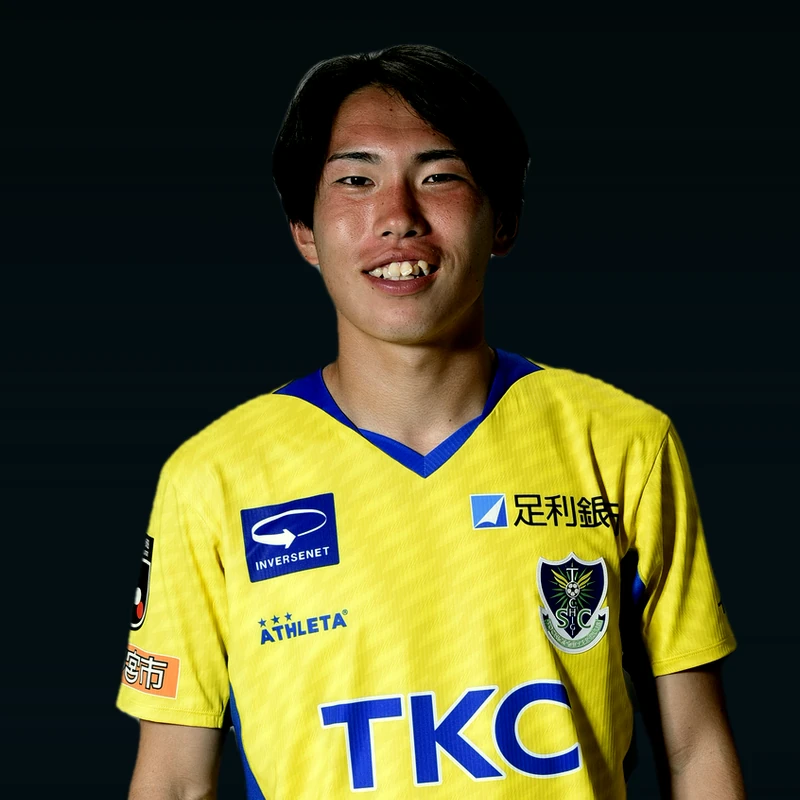
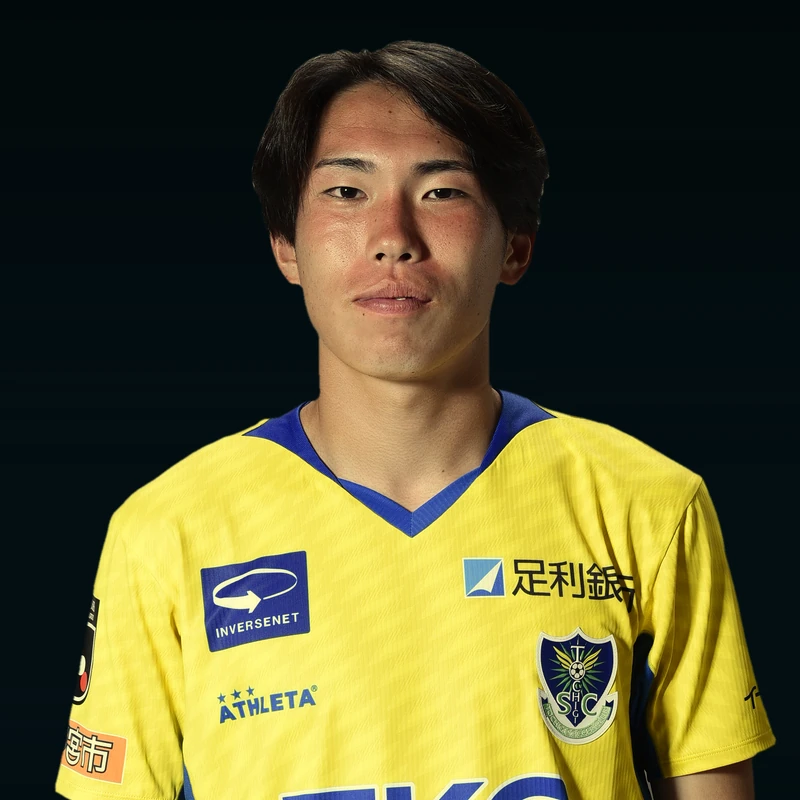
特別指定選手 #2 櫻井 稜 の個人ページを追加、写真を真顔に差し替え
未使用だったオリジナル写真(2008x3008・真顔)を発見したので、
一覧カードを笑顔から真顔に差し替え、他の33名と表情を揃えた。
個人ページ用の写真も同じ素材から作成(#77中村と同じ手順:
rembgで切り抜き→ユニフォームの黄色基準で色合わせ→同じ黒背景に合成)。
名前ボードは写り込まない位置で切っている。

アンケートは未実施のため、個人ページはPROFILEのみ掲載し
Q&Aは「準備中です。」と表示する。前後の選手ナビは付けない。
追従メニューのタブは「特別指定選手」(狭い端末でも1行に収まるよう調整)。

diff --git a/players/2.html b/players/2.html
@@ -15,7 +15,7 @@ if(location.hostname.endsWith('github.io')){
 }
 </script>
 <meta name="viewport" content="width=device-width, initial-scale=1.0">
-<title>田代 琉我 ｜ 栃木SC 26/27 SEASON SQUAD</title>
+<title>櫻井 稜 ｜ 栃木SC 26/27 SEASON SQUAD</title>
 <link rel="icon" href="../images/common/favicon.ico" sizes="48x48 32x32 16x16">
 <link rel="icon" type="image/png" href="../images/common/icon-192.png" sizes="192x192">
 <link rel="apple-touch-icon" href="../images/common/apple-touch-icon.png">
@@ -130,33 +130,33 @@ footer{text-align:center;padding:36px 20px 54px;color:#666;font-size:10px;border
   <span class="pnr-l2">ニチユ物流システム ｜ <span class="pnr-logis">Logisnext</span> <span class="pnr-alesis">ALESIS</span></span>
 </span></a>
 <nav class="pnav"><div class="pnav-in">
-  <a class="pn-back" href="../index.html#sec-GK"><span class="ar">←</span> PLAYERS &amp; STAFF</a>
+  <a class="pn-back" href="../index.html#sec-SPECIAL"><span class="ar">←</span> PLAYERS &amp; STAFF</a>
   <a class="pn-official" href="https://www.tochigisc.jp/" target="_blank" rel="noopener">公式トップ ↗</a>
 </div></nav>
 <main>
  <div class="grid2">
-  <div class="shot"><img src="../images/players_pose/41_tashiro-ryuga_pose.webp" alt="田代 琉我" width="800" height="1200"><span class="shirt-no">41</span></div>
+  <div class="shot"><img src="../images/players_pose/02_sakurai-ryo_pose.webp" alt="櫻井 稜" width="800" height="1200"><span class="shirt-no">2</span></div>
   <div>
    <div class="head">
-    <div class="pos-line">GK<small>ゴールキーパー</small></div>
+    <div class="pos-line">DF<small>ディフェンダー</small></div>
     <div class="name-set">
-     <div class="kana">たしろ りゅうが</div>
-     <h1 class="kanji">田代 琉我</h1>
-     <div class="en-name">TASHIRO Ryuga</div>
+     <div class="kana">さくらい りょう</div>
+     <h1 class="kanji">櫻井 稜</h1>
+     <div class="en-name">SAKURAI Ryo</div>
     </div>
-    <a class="ig" href="https://www.instagram.com/ryuga_tashiro/" target="_blank" rel="noopener"><svg viewBox="0 0 24 24" aria-hidden="true"><rect x="2.5" y="2.5" width="19" height="19" rx="5.5"/><circle cx="12" cy="12" r="4.2"/><circle cx="17.6" cy="6.4" r="1.25" fill="currentColor" stroke="none"/></svg><span>@ryuga_tashiro</span></a>
+    
     
    </div>
    <section class="blk">
     <div class="sec-head"><span class="en">PROFILE</span><span class="ja">プロフィール</span></div>
-    <dl class="prof"><div><dt>生年月日</dt><dd>1998.08.27</dd></div><div><dt>出身</dt><dd>神奈川県</dd></div><div><dt>身長</dt><dd>185cm</dd></div><div><dt>体重</dt><dd>88kg</dd></div><div><dt>利き足</dt><dd>右</dd></div><div><dt>利き手</dt><dd>右</dd></div><div><dt>血液型</dt><dd>A型</dd></div><div><dt>前所属</dt><dd>アルビレックス新潟</dd></div><div><dt>在籍</dt><dd>新加入</dd></div></dl>
+    <dl class="prof"><div><dt>生年月日</dt><dd>2005.02.16</dd></div><div><dt>出身</dt><dd>茨城県</dd></div><div><dt>身長</dt><dd>177cm</dd></div><div><dt>体重</dt><dd>70kg</dd></div></dl>
    </section>
   </div>
  </div>
- <div class="qa-umb"><img class="qa-ava" src="../images/players_qa/41_tashiro-ryuga_qa.webp" alt="" loading="lazy" width="300" height="300"><span class="en">Q&amp;A</span></div><section class="blk"><div class="sec-head"><span class="en">ABOUT</span><span class="ja">人柄・好きなもの</span></div><div class="qa"><div class="qa-q">Q. ニックネームは？</div><div class="qa-a">リュウガ、リュウくん</div></div><div class="qa"><div class="qa-q">Q. 背番号のこだわりは？</div><div class="qa-a">長谷川元希とお揃い笑</div></div><div class="qa"><div class="qa-q">Q. 大切にしている言葉、座右の銘は？</div><div class="qa-a">勝つ</div></div><div class="qa"><div class="qa-q">Q. 趣味・マイブームは？</div><div class="qa-a">ゴルフ、映画</div></div><div class="qa"><div class="qa-q">Q. 好きなアニメ・マンガは？</div><div class="qa-a">呪術廻戦、東京喰種、ハイキュー</div></div><div class="qa"><div class="qa-q">Q. 好きな芸能人・アーティストは？</div><div class="qa-a">沢尻エリカ、KEIJU、kvi baba</div></div><div class="qa"><div class="qa-q">Q. 実は私、〇〇なんです</div><div class="qa-a">おしゃべり</div></div><div class="qa"><div class="qa-q">Q. ここだけはチームNo.1</div><div class="qa-a">声の大きさ</div></div><div class="qa"><div class="qa-q">Q. ホッとする瞬間はどんなとき？</div><div class="qa-a">お風呂の時間と美味しいものを食べた時</div></div><div class="qa"><div class="qa-q">Q. 自分へのご褒美は？</div><div class="qa-a">美味しいものを食べる、ゴルフに行く</div></div></section><section class="blk"><div class="sec-head"><span class="en">DAILY</span><span class="ja">ふだんのこと</span></div><div class="qa"><div class="qa-q">Q. 遠征に必ず持っていくものは？</div><div class="qa-a">マッサージガン、入浴剤</div></div></section><section class="blk"><div class="sec-head"><span class="en">FOOTBALL</span><span class="ja">サッカーのこと</span></div><div class="qa"><div class="qa-q">Q. 子どもの頃のポジションは？</div><div class="qa-a">センターフォワード、キーパー</div></div><div class="qa"><div class="qa-q">Q. 子どもの頃はどんな選手だった？</div><div class="qa-a">泥臭く負けず嫌い</div></div><div class="qa"><div class="qa-q">Q. アピールポイントは？</div><div class="qa-a">セービング、ハイボール、声</div></div><div class="qa"><div class="qa-q">Q. 今シーズンの目標は？</div><div class="qa-a">全試合フル出場、最少失点</div></div></section>
- <section class="blk"><div class="sec-head"><span class="en">MESSAGE</span><span class="ja">サポーターの皆さんへ</span></div><p class="msg">共に熱く闘いましょう！！！</p></section>
- <div class="pn-move-row"><a class="pn-move" href="39.html"><span class="ar">←</span> 39 屋宜 和真</a><a class="pn-move nx" href="47.html">47 吉野 陽翔 <span class="ar">→</span></a></div>
- <a class="pn-list" href="../index.html#sec-GK">選手一覧へ戻る</a>
+ <section class="blk"><div class="sec-head"><span class="en">Q&amp;A</span><span class="ja">一問一答</span></div><p class="prep">準備中です。</p></section>
+ 
+ <div class="pn-move-row"><span></span><span></span></div>
+ <a class="pn-list" href="../index.html#sec-SPECIAL">選手一覧へ戻る</a>
 </main>
 <div class="kkt"><a href="https://kkt-nichiyu.co.jp/" target="_blank" rel="noopener">
   <img src="../images/common/kkt-nichiyu.webp" alt="北関東ニチユ" loading="lazy"></a></div>

diff --git a/index.html b/index.html
@@ -195,6 +195,9 @@ if(location.hostname.endsWith('github.io')){
   .pn-tabs::-webkit-scrollbar{display:none}
   .pn-tabs button{position:relative;border:0;background:none;font-family:'Anton','Poppins',sans-serif;font-weight:400;
     font-size:clamp(15px,4vw,18px);color:#e8e8ea;padding:12px 6px;cursor:pointer;white-space:nowrap;letter-spacing:.04em}
+  /* 日本語のタブ(特別指定選手)。Antonは和文を持たないので本文書体で少し小さく */
+  .pn-tabs button.ja{font-family:'Hiragino Kaku Gothic ProN','Noto Sans JP',sans-serif;
+    font-weight:700;font-size:clamp(11px,3.1vw,13px);letter-spacing:.01em;padding-bottom:14px}
   .pn-tabs button.active{color:var(--yellow)}
   .pn-tabs button.active::after{content:'';position:absolute;left:4px;right:4px;bottom:5px;height:2px;background:var(--yellow)}
   .pn-right{display:flex;align-items:center;gap:8px;flex:0 0 auto;margin-left:10px}
@@ -210,6 +213,10 @@ if(location.hostname.endsWith('github.io')){
   }
   /* スマホでも「公式HP」の文字は消さない(アイコンだけだと何のボタンか伝わらないため) */
   @media(max-width:520px){.pn-official{padding:6px 9px;font-size:10.5px}.pn-tabs{gap:11px}}
+  /* 「特別指定選手」が増えた分、狭い端末では字間と余白を詰めて1行に収める */
+  @media(max-width:400px){.pn-tabs{gap:7px}
+    .pn-tabs button{padding-left:3px;padding-right:3px}
+    .pn-tabs button.ja{font-size:11px}}
   /* 選手カードのポジション(氏名の前の行・テキストのみ) */
   .info .pos-line{color:var(--yellow);font-family:'Poppins','Avenir Next',sans-serif;
     font-weight:700;font-size:11px;letter-spacing:.14em;line-height:1;margin-bottom:5px}
@@ -264,7 +271,7 @@ if(location.hostname.endsWith('github.io')){
 </header>
 <nav class="pnav" id="pnav"><div class="pnav-in">
   <div class="pn-tabs">
-    <button data-sec="sec-GK" onclick="go('sec-GK')">GK</button><button data-sec="sec-DF" onclick="go('sec-DF')">DF</button><button data-sec="sec-MF" onclick="go('sec-MF')">MF</button><button data-sec="sec-FW" onclick="go('sec-FW')">FW</button><button data-sec="sec-STAFF" onclick="go('sec-STAFF')">STAFF</button>
+    <button data-sec="sec-GK" onclick="go('sec-GK')">GK</button><button data-sec="sec-DF" onclick="go('sec-DF')">DF</button><button data-sec="sec-MF" onclick="go('sec-MF')">MF</button><button data-sec="sec-FW" onclick="go('sec-FW')">FW</button><button data-sec="sec-SPECIAL" class="ja" onclick="go('sec-SPECIAL')">特別指定選手</button><button data-sec="sec-STAFF" onclick="go('sec-STAFF')">STAFF</button>
   </div>
   <div class="pn-right">
     <a class="pn-official" href="https://www.tochigisc.jp/" rel="noopener">公式HP</a>
@@ -396,29 +403,6 @@ for(const [sec,players] of Object.entries(DATA)){
       </div>`);
       continue;
     }
-    if(isSp){
-      // 特別指定選手: 個人ページを作らないのでリンクにしない(矢印も出さない)。
-      // 行き先が無いぶん、プロフィールはこのカードに載せる
-      g.insertAdjacentHTML("beforeend",`
-      <div class="card">
-        <div class="shot">
-          <img src="${IMG}${p.img}" alt="${p.ja}" loading="lazy" width="800" height="800">
-          ${p.num!==null?`<span class="shirt-no">${p.num}</span>`:""}
-        </div>
-        <div class="band">${p.en}</div>
-        <div class="info">
-          <div class="pos-line">${p.pos||""}</div>
-          <div class="name-ja"><span class="kanji">${p.ja}</span></div>
-          <dl class="prof">
-            ${p.dob?`<dt>生年月日</dt><dd>${p.dob}</dd>`:""}
-            ${p.from?`<dt>出身</dt><dd>${p.from}</dd>`:""}
-            ${p.hw?`<dt>身長／体重</dt><dd>${p.hw}</dd>`:""}
-            ${p.career?`<dt>経歴</dt><dd>${p.career}</dd>`:""}
-          </dl>
-        </div>
-      </div>`);
-      continue;
-    }
     // 選手: 背番号は写真にCSSで重ねる。名前は日本語氏名。カード全体が個人ページへのリンク
     g.insertAdjacentHTML("beforeend",`
       <a class="card card-link" href="players/${p.num}.html">
@@ -428,7 +412,7 @@ for(const [sec,players] of Object.entries(DATA)){
         </div>
         <div class="band">${p.en}</div>
         <div class="info">
-          <div class="pos-line">${sec}</div>
+          <div class="pos-line">${isSp?(p.pos||""):sec}</div>
           <div class="name-ja"><span class="kanji">${p.ja}</span><span class="go">›</span></div>
           <dl class="prof">
             ${p.from?`<dt>出身</dt><dd>${p.from}</dd>`:""}
@@ -447,7 +431,7 @@ function go(id){var el=document.getElementById(id);if(!el)return;
   var ab=document.querySelector('.pnr-bar'),pn=document.getElementById('pnav');
   function setTop(){pn.style.top=(ab?ab.offsetHeight:0)+'px';}
   window.addEventListener('resize',setTop);setTop();
-  var ids=['sec-GK','sec-DF','sec-MF','sec-FW','sec-STAFF'];
+  var ids=['sec-GK','sec-DF','sec-MF','sec-FW','sec-SPECIAL','sec-STAFF'];
   function spy(){var off=(ab?ab.offsetHeight:0)+pn.offsetHeight+40,cur=null;
     for(var i=0;i<ids.length;i++){var el=document.getElementById(ids[i]);if(el&&el.getBoundingClientRect().top<=off)cur=ids[i];}
     document.querySelectorAll('.pn-tabs button').forEach(function(b){b.classList.toggle('active',b.dataset.sec===cur);});}

diff --git a/players/1.html b/players/1.html
@@ -26,6 +26,7 @@ if(location.hostname.endsWith('github.io')){
 :root{--yellow:#FFEA00;--blue:#004D9F;--navy:#042242;--red:#DB0025;--text:#f2f2f2;--muted:#9aa0ae}
 *{margin:0;padding:0;box-sizing:border-box}
 body{background:#0b0b0d;color:var(--text);font-family:'Hiragino Kaku Gothic ProN','Noto Sans JP',sans-serif}
+.prep{color:var(--muted);font-size:clamp(13px,3.4vw,15px);line-height:1.9;padding:2px 2px 6px}
 .pnr-bar{position:sticky;top:0;z-index:300;width:100%;background:#141414;box-shadow:0 2px 8px rgba(0,0,0,.2);text-decoration:none;display:block}
 .pnr-bar-in{max-width:1376px;margin:0 auto;display:flex;flex-direction:column;align-items:center;justify-content:center;gap:3px;padding:8px 12px;text-align:center;line-height:1.2}
 .pnr-l1{display:inline-flex;align-items:center;gap:8px}

diff --git a/players/10.html b/players/10.html
@@ -26,6 +26,7 @@ if(location.hostname.endsWith('github.io')){
 :root{--yellow:#FFEA00;--blue:#004D9F;--navy:#042242;--red:#DB0025;--text:#f2f2f2;--muted:#9aa0ae}
 *{margin:0;padding:0;box-sizing:border-box}
 body{background:#0b0b0d;color:var(--text);font-family:'Hiragino Kaku Gothic ProN','Noto Sans JP',sans-serif}
+.prep{color:var(--muted);font-size:clamp(13px,3.4vw,15px);line-height:1.9;padding:2px 2px 6px}
 .pnr-bar{position:sticky;top:0;z-index:300;width:100%;background:#141414;box-shadow:0 2px 8px rgba(0,0,0,.2);text-decoration:none;display:block}
 .pnr-bar-in{max-width:1376px;margin:0 auto;display:flex;flex-direction:column;align-items:center;justify-content:center;gap:3px;padding:8px 12px;text-align:center;line-height:1.2}
 .pnr-l1{display:inline-flex;align-items:center;gap:8px}

diff --git a/players/11.html b/players/11.html
@@ -26,6 +26,7 @@ if(location.hostname.endsWith('github.io')){
 :root{--yellow:#FFEA00;--blue:#004D9F;--navy:#042242;--red:#DB0025;--text:#f2f2f2;--muted:#9aa0ae}
 *{margin:0;padding:0;box-sizing:border-box}
 body{background:#0b0b0d;color:var(--text);font-family:'Hiragino Kaku Gothic ProN','Noto Sans JP',sans-serif}
+.prep{color:var(--muted);font-size:clamp(13px,3.4vw,15px);line-height:1.9;padding:2px 2px 6px}
 .pnr-bar{position:sticky;top:0;z-index:300;width:100%;background:#141414;box-shadow:0 2px 8px rgba(0,0,0,.2);text-decoration:none;display:block}
 .pnr-bar-in{max-width:1376px;margin:0 auto;display:flex;flex-direction:column;align-items:center;justify-content:center;gap:3px;padding:8px 12px;text-align:center;line-height:1.2}
 .pnr-l1{display:inline-flex;align-items:center;gap:8px}

diff --git a/players/13.html b/players/13.html
@@ -26,6 +26,7 @@ if(location.hostname.endsWith('github.io')){
 :root{--yellow:#FFEA00;--blue:#004D9F;--navy:#042242;--red:#DB0025;--text:#f2f2f2;--muted:#9aa0ae}
 *{margin:0;padding:0;box-sizing:border-box}
 body{background:#0b0b0d;color:var(--text);font-family:'Hiragino Kaku Gothic ProN','Noto Sans JP',sans-serif}
+.prep{color:var(--muted);font-size:clamp(13px,3.4vw,15px);line-height:1.9;padding:2px 2px 6px}
 .pnr-bar{position:sticky;top:0;z-index:300;width:100%;background:#141414;box-shadow:0 2px 8px rgba(0,0,0,.2);text-decoration:none;display:block}
 .pnr-bar-in{max-width:1376px;margin:0 auto;display:flex;flex-direction:column;align-items:center;justify-content:center;gap:3px;padding:8px 12px;text-align:center;line-height:1.2}
 .pnr-l1{display:inline-flex;align-items:center;gap:8px}

diff --git a/players/14.html b/players/14.html
@@ -26,6 +26,7 @@ if(location.hostname.endsWith('github.io')){
 :root{--yellow:#FFEA00;--blue:#004D9F;--navy:#042242;--red:#DB0025;--text:#f2f2f2;--muted:#9aa0ae}
 *{margin:0;padding:0;box-sizing:border-box}
 body{background:#0b0b0d;color:var(--text);font-family:'Hiragino Kaku Gothic ProN','Noto Sans JP',sans-serif}
+.prep{color:var(--muted);font-size:clamp(13px,3.4vw,15px);line-height:1.9;padding:2px 2px 6px}
 .pnr-bar{position:sticky;top:0;z-index:300;width:100%;background:#141414;box-shadow:0 2px 8px rgba(0,0,0,.2);text-decoration:none;display:block}
 .pnr-bar-in{max-width:1376px;margin:0 auto;display:flex;flex-direction:column;align-items:center;justify-content:center;gap:3px;padding:8px 12px;text-align:center;line-height:1.2}
 .pnr-l1{display:inline-flex;align-items:center;gap:8px}

diff --git a/players/15.html b/players/15.html
@@ -26,6 +26,7 @@ if(location.hostname.endsWith('github.io')){
 :root{--yellow:#FFEA00;--blue:#004D9F;--navy:#042242;--red:#DB0025;--text:#f2f2f2;--muted:#9aa0ae}
 *{margin:0;padding:0;box-sizing:border-box}
 body{background:#0b0b0d;color:var(--text);font-family:'Hiragino Kaku Gothic ProN','Noto Sans JP',sans-serif}
+.prep{color:var(--muted);font-size:clamp(13px,3.4vw,15px);line-height:1.9;padding:2px 2px 6px}
 .pnr-bar{position:sticky;top:0;z-index:300;width:100%;background:#141414;box-shadow:0 2px 8px rgba(0,0,0,.2);text-decoration:none;display:block}
 .pnr-bar-in{max-width:1376px;margin:0 auto;display:flex;flex-direction:column;align-items:center;justify-content:center;gap:3px;padding:8px 12px;text-align:center;line-height:1.2}
 .pnr-l1{display:inline-flex;align-items:center;gap:8px}

diff --git a/players/16.html b/players/16.html
@@ -26,6 +26,7 @@ if(location.hostname.endsWith('github.io')){
 :root{--yellow:#FFEA00;--blue:#004D9F;--navy:#042242;--red:#DB0025;--text:#f2f2f2;--muted:#9aa0ae}
 *{margin:0;padding:0;box-sizing:border-box}
 body{background:#0b0b0d;color:var(--text);font-family:'Hiragino Kaku Gothic ProN','Noto Sans JP',sans-serif}
+.prep{color:var(--muted);font-size:clamp(13px,3.4vw,15px);line-height:1.9;padding:2px 2px 6px}
 .pnr-bar{position:sticky;top:0;z-index:300;width:100%;background:#141414;box-shadow:0 2px 8px rgba(0,0,0,.2);text-decoration:none;display:block}
 .pnr-bar-in{max-width:1376px;margin:0 auto;display:flex;flex-direction:column;align-items:center;justify-content:center;gap:3px;padding:8px 12px;text-align:center;line-height:1.2}
 .pnr-l1{display:inline-flex;align-items:center;gap:8px}

diff --git a/players/17.html b/players/17.html
@@ -26,6 +26,7 @@ if(location.hostname.endsWith('github.io')){
 :root{--yellow:#FFEA00;--blue:#004D9F;--navy:#042242;--red:#DB0025;--text:#f2f2f2;--muted:#9aa0ae}
 *{margin:0;padding:0;box-sizing:border-box}
 body{background:#0b0b0d;color:var(--text);font-family:'Hiragino Kaku Gothic ProN','Noto Sans JP',sans-serif}
+.prep{color:var(--muted);font-size:clamp(13px,3.4vw,15px);line-height:1.9;padding:2px 2px 6px}
 .pnr-bar{position:sticky;top:0;z-index:300;width:100%;background:#141414;box-shadow:0 2px 8px rgba(0,0,0,.2);text-decoration:none;display:block}
 .pnr-bar-in{max-width:1376px;margin:0 auto;display:flex;flex-direction:column;align-items:center;justify-content:center;gap:3px;padding:8px 12px;text-align:center;line-height:1.2}
 .pnr-l1{display:inline-flex;align-items:center;gap:8px}

diff --git a/players/18.html b/players/18.html
@@ -26,6 +26,7 @@ if(location.hostname.endsWith('github.io')){
 :root{--yellow:#FFEA00;--blue:#004D9F;--navy:#042242;--red:#DB0025;--text:#f2f2f2;--muted:#9aa0ae}
 *{margin:0;padding:0;box-sizing:border-box}
 body{background:#0b0b0d;color:var(--text);font-family:'Hiragino Kaku Gothic ProN','Noto Sans JP',sans-serif}
+.prep{color:var(--muted);font-size:clamp(13px,3.4vw,15px);line-height:1.9;padding:2px 2px 6px}
 .pnr-bar{position:sticky;top:0;z-index:300;width:100%;background:#141414;box-shadow:0 2px 8px rgba(0,0,0,.2);text-decoration:none;display:block}
 .pnr-bar-in{max-width:1376px;margin:0 auto;display:flex;flex-direction:column;align-items:center;justify-content:center;gap:3px;padding:8px 12px;text-align:center;line-height:1.2}
 .pnr-l1{display:inline-flex;align-items:center;gap:8px}

diff --git a/players/20.html b/players/20.html
@@ -26,6 +26,7 @@ if(location.hostname.endsWith('github.io')){
 :root{--yellow:#FFEA00;--blue:#004D9F;--navy:#042242;--red:#DB0025;--text:#f2f2f2;--muted:#9aa0ae}
 *{margin:0;padding:0;box-sizing:border-box}
 body{background:#0b0b0d;color:var(--text);font-family:'Hiragino Kaku Gothic ProN','Noto Sans JP',sans-serif}
+.prep{color:var(--muted);font-size:clamp(13px,3.4vw,15px);line-height:1.9;padding:2px 2px 6px}
 .pnr-bar{position:sticky;top:0;z-index:300;width:100%;background:#141414;box-shadow:0 2px 8px rgba(0,0,0,.2);text-decoration:none;display:block}
 .pnr-bar-in{max-width:1376px;margin:0 auto;display:flex;flex-direction:column;align-items:center;justify-content:center;gap:3px;padding:8px 12px;text-align:center;line-height:1.2}
 .pnr-l1{display:inline-flex;align-items:center;gap:8px}
